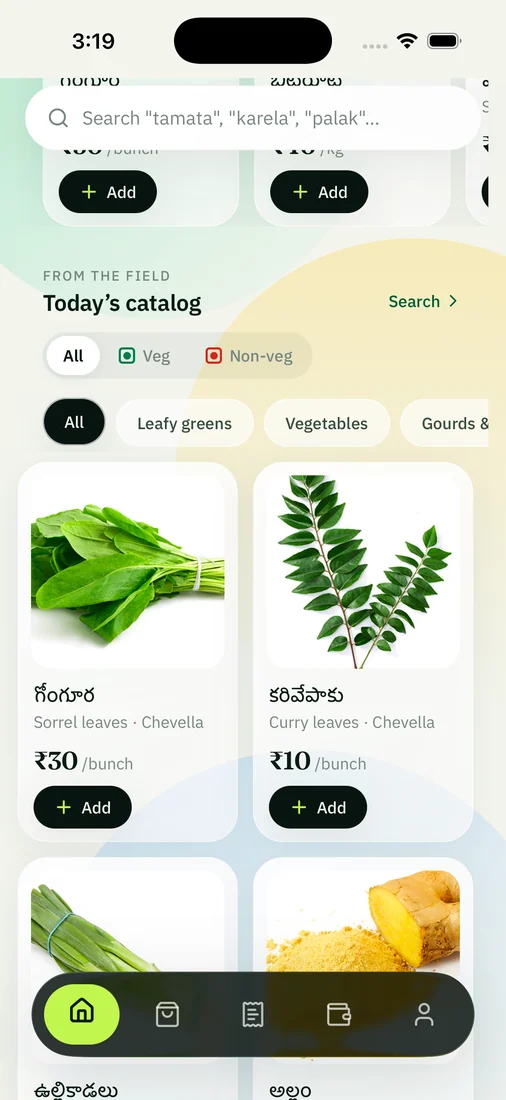
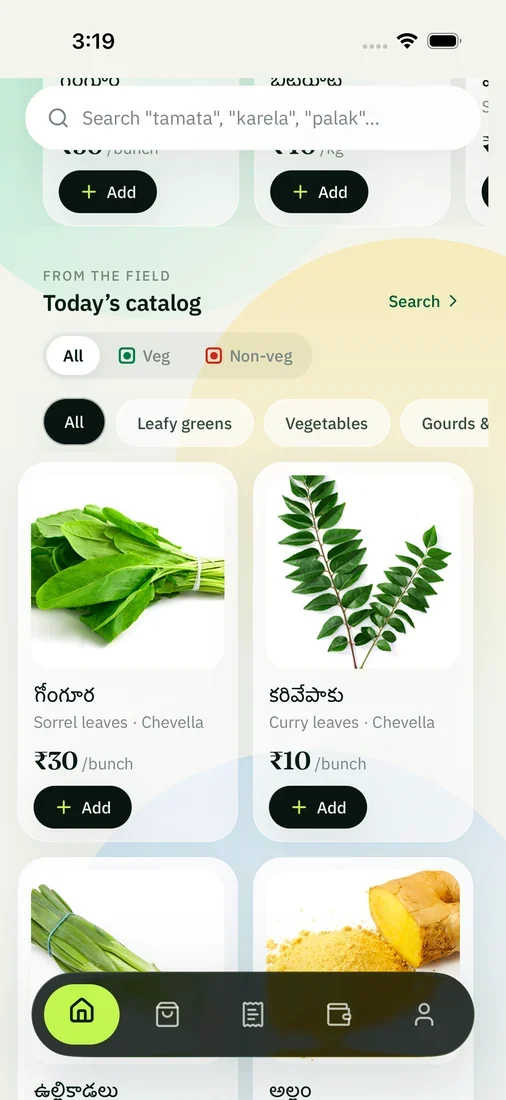
fix(site): one notch per device, a black close, and some motion worth having
THE NOTCH. The shell's notch and the screenshot's own Dynamic Island were both being drawn, and the
capture's is the bigger of the two — measured at x 174..331, y 18..63 in a 506x1100 shot, against the
shell's x 36.57%..63.43%, y 1.05%..5.06% — so it showed as a dark rim around three sides of the real
one. The island is now painted out of all six captures: each row across the pill is replaced by an
interpolation between the pixels just outside it, which the smooth background up there takes
without a seam. The status bar stays, because the shell's notch is meant to sit in the gap it leaves.

THE CLOSE IS BLACK. Everything above it is cloudy white, so switching the footer to near-black with
white type is what makes the bottom read as an ending rather than the page running out. The Kiwik
badge stays a white pill against it, which is the black-and-white pairing asked for.

MOTION, where it earns its place:
  - a ticker of real catalog names in all three languages, running between the stat band and the
    timeline. Two identical tracks sliding as one, so the loop has no seam, masked at both edges,
    and paused on hover.
  - the hero enters once on load, staggered, each line out of a blur — from a visible resting
    state, so arriving mid-animation never shows a blank hero.
  - the hero device drifts slower than the page. Written straight to a custom property from the
    scroll handler rather than through React state, because a re-render per scroll frame would cost
[…]

Changed region(s): [[0.3261, 0.0, 0.6522, 0.0618]]

diff --git a/apps/admin/src/styles/landing.css b/apps/admin/src/styles/landing.css
@@ -1359,9 +1359,26 @@
 }
 
 /* ── footer ───────────────────────────────────────────────────────────────── */
+/* The page closes on black. Everything above it is cloudy white, so the switch is what makes the
+   bottom read as an ending rather than as the page simply running out. */
 .lp-foot {
-  border-top: 1px solid var(--lp-hairline);
-  padding: 44px 0 36px;
+  position: relative;
+  background: #080e0a;
+  color: var(--lp-canvas);
+  padding: 72px 0 40px;
+  overflow: hidden;
+}
+/* one slow wash of brand colour across the top edge, so the black is not flat */
+.lp-foot::before {
+  content: '';
+  position: absolute;
+  inset: -60% 0 auto 0;
+  height: 160%;
+  background: radial-gradient(60% 50% at 50% 0%, rgba(30, 122, 76, 0.4), transparent 70%);
+  pointer-events: none;
+}
+.lp-foot > * {
+  position: relative;
 }
 .lp-foot__top {
   display: flex;
@@ -1383,6 +1400,11 @@
   height: 30px;
   border-radius: 8px;
 }
+.lp-foot__blurb {
+  color: rgba(243, 245, 239, 0.58);
+  font-size: 14.5px;
+  line-height: 1.65;
+}
 .lp-foot__cols {
   display: flex;
   flex-wrap: wrap;
@@ -1397,21 +1419,28 @@
   font-size: 12px;
   letter-spacing: 0.12em;
   text-transform: uppercase;
-  color: var(--lp-ink-3);
+  color: rgba(243, 245, 239, 0.42);
   font-weight: 600;
 }
 .lp-foot__col a {
-  color: var(--lp-ink-2);
+  color: rgba(243, 245, 239, 0.74);
   text-decoration: none;
   font-size: 14.5px;
+  width: fit-content;
+  transition: color 180ms ease;
 }
 .lp-foot__col a:hover {
-  color: var(--lp-leaf);
+  color: var(--lp-sprout);
 }
 .lp-foot__rule {
   height: 1px;
-  background: var(--lp-hairline);
-  margin: 34px 0 22px;
+  background: linear-gradient(
+    90deg,
+    rgba(243, 245, 239, 0.02),
+    rgba(243, 245, 239, 0.18),
+    rgba(243, 245, 239, 0.02)
+  );
+  margin: 40px 0 24px;
 }
 .lp-foot__bot {
   display: flex;
@@ -1420,7 +1449,7 @@
   align-items: center;
   justify-content: space-between;
   font-size: 13.5px;
-  color: var(--lp-ink-3);
+  color: rgba(243, 245, 239, 0.45);
 }
 .lp-powered {
   display: inline-flex;
@@ -1474,5 +1503,170 @@
   .lp-rv {
     opacity: 1;
     transform: none;
+  }
+}
+
+/* ── a ticker of what is actually in the catalog ──────────────────────────────
+   Two identical tracks sliding as one: when the first has travelled its own width
+   the second is exactly where it started, so the loop has no seam. */
+.lp-ticker {
+  position: relative;
+  overflow: hidden;
+  padding: 18px 0;
+  border-top: 1px solid var(--lp-hairline);
+  border-bottom: 1px solid var(--lp-hairline);
+  background: rgba(255, 255, 255, 0.4);
+  backdrop-filter: blur(6px);
+  mask-image: linear-gradient(90deg, transparent, #000 9%, #000 91%, transparent);
+  -webkit-mask-image: linear-gradient(90deg, transparent, #000 9%, #000 91%, transparent);
+}
+.lp-ticker__track {
+  display: flex;
+  width: max-content;
+  animation: lp-ticker 46s linear infinite;
+}
+.lp-ticker:hover .lp-ticker__track {
+  animation-play-state: paused;
+}
+@keyframes lp-ticker {
+  to {
+    transform: translateX(-50%);
+  }
+}
+.lp-ticker__item {
+  display: inline-flex;
+  align-items: baseline;
+  gap: 9px;
+  padding: 0 26px;
+  white-space: nowrap;
+  font-size: 17px;
+  color: var(--lp-ink);
+}
+.lp-ticker__item span {
+  font-size: 13.5px;
+  color: var(--lp-ink-3);
+}
+.lp-ticker__item::after {
+  content: '';
+  width: 5px;
+  height: 5px;
+  border-radius: 50%;
+  background: var(--lp-sprout-deep);
+  margin-left: 26px;
+  align-self: center;
+}
+
+/* ── hero entrance ────────────────────────────────────────────────────────────
+   Runs once on load, from a visible resting state, so a reader who arrives
+   mid-animation never sees a blank hero. */
+.lp-hero__copy > * {
+  animation: lp-in 760ms cubic-bezier(0.22, 1, 0.36, 1) both;
+  animation-delay: calc(var(--i, 0) * 90ms);
+}
+@keyframes lp-in {
+  from {
+    opacity: 0;
+    transform: translateY(16px);
+    filter: blur(6px);
+  }
+}
+.lp-hero__stage {
+  animation: lp-in-stage 1000ms cubic-bezier(0.22, 1, 0.36, 1) both;
+  animation-delay: 160ms;
+}
+@keyframes lp-in-stage {
+  from {
+    opacity: 0;
+    transform: translateY(26px) scale(0.97);
+  }
+}
+
+/* The device drifts a little slower than the page — enough to feel like depth,
+   not enough to notice as an effect. Driven by the scroll handler. */
+.lp-hero__stage .lp-phone {
+  will-change: transform;
+  transform: translateY(var(--lp-par, 0px));
+}
+
+/* ── a sheen across the store badges on hover ─────────────────────────────── */
+.lp-store {
+  position: relative;
+  overflow: hidden;
+}
+.lp-store::after {
+  content: '';
+  position: absolute;
+  inset: 0;
+  background: linear-gradient(
+    105deg,
+    transparent 38%,
+    rgba(255, 255, 255, 0.34) 50%,
+    transparent 62%
+  );
+  transform: translateX(-120%);
+}
+.lp-store:hover::after {
+  animation: lp-sheen 820ms ease;
+}
+@keyframes lp-sheen {
+  to {
+    transform: translateX(120%);
+  }
+}
+
+/* ── a rule that draws itself under each section heading ──────────────────── */
+.lp-sec__head h2 {
+  position: relative;
+  padding-bottom: 14px;
+}
+.lp-sec__head h2::after {
+  content: '';
+  position: absolute;
+  left: 0;
+  bottom: 0;
+  height: 3px;
+  width: 64px;
+  border-radius: 3px;
+  background: linear-gradient(90deg, var(--lp-sprout), var(--lp-leaf));
+  transform: scaleX(0);
+  transform-origin: left;
+  transition: transform 700ms cubic-bezier(0.22, 1, 0.36, 1) 160ms;
+}
+.lp-sec__head[data-rv='in'] h2::after,
+[data-rv='in'] .lp-sec__head h2::after {
+  transform: scaleX(1);
+}
+
+/* ── cards pick up a little light on hover ────────────────────────────────── */
+.lp-card {
+  position: relative;
+  overflow: hidden;
+}
+.lp-card::before {
+  content: '';
+  position: absolute;
+  inset: 0;
+  background: radial-gradient(70% 60% at 50% 0%, rgba(205, 245, 106, 0.22), transparent 70%);
+  opacity: 0;
+  transition: opacity 320ms ease;
+  pointer-events: none;
+}
+.lp-card:hover::before {
+  opacity: 1;
+}
+
+@media (prefers-reduced-motion: reduce) {
+  .lp-ticker__track {
+    animation: none !important;
+  }
+  .lp-hero__copy > *,
+  .lp-hero__stage {
+    animation: none !important;
+  }
+  .lp-hero__stage .lp-phone {
+    transform: none !important;
+  }
+  .lp-sec__head h2::after {
+    transform: scaleX(1) !important;
   }
 }

diff --git a/apps/admin/src/screens/Landing.jsx b/apps/admin/src/screens/Landing.jsx
@@ -433,6 +433,22 @@ const STEPS = [
   },
 ];
 
+/** Real names from the catalog, in the three languages the app ships. */
+const TICKER = [
+  ['గోంగూర', 'Sorrel leaves'],
+  ['पालक', 'Spinach'],
+  ['కరివేపాకు', 'Curry leaves'],
+  ['मेथी', 'Fenugreek'],
+  ['పచ్చిమిర్చి', 'Green chilli'],
+  ['बैंगन', 'Brinjal'],
+  ['బీట్రూట్', 'Beetroot'],
+  ['टमाटर', 'Tomato'],
+  ['వెల్లుల్లి', 'Garlic'],
+  ['अदरक', 'Ginger'],
+  ['ఉల్లికాడలు', 'Spring onion'],
+  ['नींबू', 'Lemon'],
+];
+
 const DOCS = [
   {
     h: 'Delivery',
@@ -508,7 +524,13 @@ export function Landing() {
   // not equal heights, so a global fraction put the green line in the gap between two of them.
   useEffect(() => {
     const onScroll = () => {
-      setStuck(window.scrollY > 8);
+      const y = window.scrollY;
+      setStuck(y > 8);
+      // The hero device drifts a little slower than the page. Written straight to a custom property
+      // rather than through React state, because this runs on every scroll frame and a re-render
+      // per frame would cost far more than the effect is worth.
+      const stage = document.querySelector('.lp-hero__stage');
+      if (stage) stage.style.setProperty('--lp-par', `${Math.min(y, 900) * 0.07}px`);
       const rail = railRef.current;
       if (!rail) return;
       const line = window.innerHeight * 0.55;
@@ -564,21 +586,23 @@ export function Landing() {
         <section className="lp-hero" id="top">
           <div className="lp-wrap lp-hero__grid">
             <div className="lp-hero__copy">
-              <span className="lp-eyebrow">Hyderabad · harvested to order</span>
-              <h1>
+              <span className="lp-eyebrow" style={{ '--i': 0 }}>
+                Hyderabad · harvested to order
+              </span>
+              <h1 style={{ '--i': 1 }}>
                 Order tonight.
                 <br />
                 It is <em>picked in the morning</em>.
               </h1>
-              <p className="lp-lede">
+              <p className="lp-lede" style={{ '--i': 2 }}>
                 Most vegetables reach your kitchen four days after they left the soil. Fooducia was
                 built to close that gap: your order goes to the farm overnight, it is cut at dawn,
                 and it is at your door before breakfast.
               </p>
-              <div className="lp-hero__cta">
+              <div className="lp-hero__cta" style={{ '--i': 3 }}>
                 <StoreBadges />
               </div>
-              <div className="lp-hero__proof">
+              <div className="lp-hero__proof" style={{ '--i': 4 }}>
                 <span>
                   <IcLeaf size={17} /> Never from a cold room
                 </span>
@@ -657,6 +681,17 @@ export function Landing() {
                 <div className="lp-band__n">{n}</div>
                 <div className="lp-band__l">{l}</div>
               </div>
+            ))}
+          </div>
+        </div>
+
+        {/* ── what is in the catalog today, rolling past ─────────────────── */}
+        <div className="lp-ticker" aria-hidden="true">
+          <div className="lp-ticker__track">
+            {[...TICKER, ...TICKER].map((t, i) => (
+              <span className="lp-ticker__item" key={`${t[0]}-${i}`}>
+                {t[0]} <span>{t[1]}</span>
+              </span>
             ))}
           </div>
         </div>
@@ -941,7 +976,7 @@ export function Landing() {
                   <img src={mark} alt="" width={30} height={30} />
                   Fooducia
                 </span>
-                <p style={{ color: 'var(--lp-ink-2)', fontSize: 14.5 }}>
+                <p className="lp-foot__blurb">
                   Vegetables harvested after you order them, delivered to Hyderabad apartments the
                   same morning.
                 </p>
